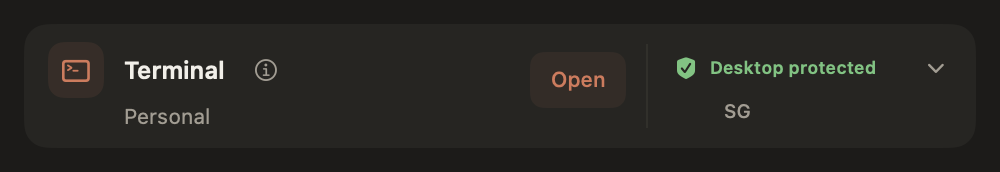
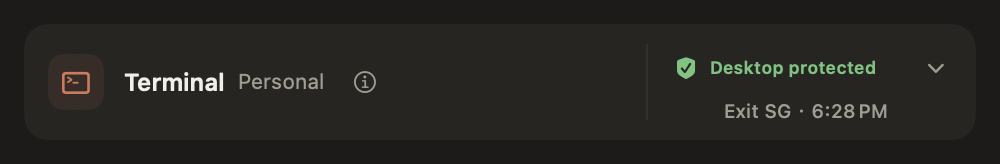
ui: align terminal and network evidence by state

diff --git a/App/ProtectionView.swift b/App/ProtectionView.swift
@@ -166,6 +166,47 @@ struct TerminalProtectionCard: View {
         return draft != target || modeChanged
     }
 
+    private func freshNetworkExit(now: Date) -> (country: String, checkedAt: Date)? {
+        guard !controller.checking, !controller.working, !controller.hasUnsavedChanges,
+              let activeCountry = controller.activeCountry?.trimmingCharacters(in: .whitespacesAndNewlines).uppercased(),
+              !activeCountry.isEmpty, let activeMode = controller.activeProxyMode else { return nil }
+
+        func normalized(_ country: String?) -> String? {
+            country?.trimmingCharacters(in: .whitespacesAndNewlines).uppercased()
+        }
+        func fresh(_ checkedAt: Date) -> Bool {
+            let age = now.timeIntervalSince(checkedAt)
+            return age >= 0 && age <= SafetyConfig.maximumReceiptAge
+        }
+
+        let reportIsNewest = controller.lastCheckReport.map { report in
+            controller.guardCheckedAt.map { report.checkedAt >= $0 } ?? true
+        } ?? false
+        if reportIsNewest, let report = controller.lastCheckReport {
+            guard fresh(report.checkedAt), report.validationMessage == nil, report.passed,
+                  normalized(report.targetCountry) == activeCountry, report.proxyMode == activeMode,
+                  let observation = report.observation,
+                  let country = normalized(observation.country), country == activeCountry else { return nil }
+            return (country, report.checkedAt)
+        }
+
+        guard let checkedAt = controller.guardCheckedAt, fresh(checkedAt),
+              controller.enabled, controller.guardOnline, controller.lastDecision.allowed,
+              normalized(controller.lastDecision.expectedCountry) == activeCountry,
+              let country = normalized(controller.lastDecision.observedCountry), country == activeCountry else { return nil }
+        return (country, checkedAt)
+    }
+
+    private func networkSummary(now: Date, includeTime: Bool = true) -> String {
+        guard let exit = freshNetworkExit(now: now) else {
+            return t("common.target", arguments: ["country": controller.activeCountry ?? t("common.notSet")])
+        }
+        let exitText = t("protection.observedExit", arguments: ["country": exit.country])
+        guard includeTime else { return exitText }
+        let time = AppLocalization.date(exit.checkedAt, language: language, timeStyle: .short)
+        return exitText + " · " + time
+    }
+
     /// Stale completed network results lose their verdict colour; early gate failures keep their actual reason.
     private var displayVerdict: (text: String, color: Color, icon: String) {
         if resultStale, controller.lastCheckReport?.observation != nil {
@@ -378,30 +419,33 @@ struct TerminalProtectionCard: View {
     }
 
     private var protectionHeader: some View {
-        VStack(alignment: .leading, spacing: 4) {
-            if protectedSummaryCountry != nil {
-                ViewThatFits(in: .horizontal) {
-                    protectedSummary(inlineCountry: true)
-                    protectedSummary(inlineCountry: false)
+        TimelineView(.periodic(from: .now, by: 5)) { context in
+            let detail = statusDetail(now: context.date)
+            VStack(alignment: .leading, spacing: 4) {
+                if protectedSummaryCountry(now: context.date) != nil {
+                    ViewThatFits(in: .horizontal) {
+                        protectedSummary(inlineCountry: true, now: context.date)
+                        protectedSummary(inlineCountry: false, now: context.date)
+                    }
+                } else {
+                    statusRow
+                    Group {
+                        Text(detail.isEmpty ? " " : detail)
+                            .font(.system(size: 9.5, weight: .medium)).foregroundColor(.sub)
+                            .lineLimit(1).minimumScaleFactor(0.75)
+                            .padding(.leading, 26)
+                            .opacity(detail.isEmpty ? 0 : 1)
+                            .accessibilityHidden(detail.isEmpty)
+                    }
                 }
-            } else {
-                statusRow
-                Group {
-                    Text(statusDetail.isEmpty ? " " : statusDetail)
-                        .font(.system(size: 9.5, weight: .medium)).foregroundColor(.sub)
-                        .lineLimit(1).minimumScaleFactor(0.75)
-                        .padding(.leading, 26)
-                        .opacity(statusDetail.isEmpty ? 0 : 1)
-                        .accessibilityHidden(statusDetail.isEmpty)
+                if controller.desktopScope == .subscription && needsRetry {
+                    protectionAction()
                 }
             }
-            if controller.desktopScope == .subscription && needsRetry {
-                protectionAction()
-            }
+            .padding(.horizontal, 2).padding(.vertical, 4)
+            .frame(maxWidth: .infinity, alignment: .topLeading)
+            .accessibilityLabel(t("protection.statusAccessibility", arguments: ["title": statusTitle, "detail": detail]))
         }
-        .padding(.horizontal, 2).padding(.vertical, 4)
-        .frame(maxWidth: .infinity, alignment: .topLeading)
-        .accessibilityLabel(t("protection.statusAccessibility", arguments: ["title": statusTitle, "detail": statusDetail]))
     }
 
     private var statusRow: some View {
@@ -431,17 +475,17 @@ struct TerminalProtectionCard: View {
         }
     }
 
-    private func protectedSummary(inlineCountry: Bool) -> some View {
+    private func protectedSummary(inlineCountry: Bool, now: Date) -> some View {
         VStack(alignment: .leading, spacing: 2) {
             HStack(spacing: 4) {
                 if inlineCountry {
-                    inlineStatusContent
+                    inlineStatusContent(now: now)
                 } else {
                     statusContent.padding(.horizontal, 6)
                 }
                 settingsToggleButton
             }
-            if !inlineCountry, let country = protectedSummaryCountry {
+            if !inlineCountry, let country = protectedSummaryCountry(now: now) {
                 Text(country)
                     .font(.system(size: 9.5, weight: .medium)).foregroundColor(.sub)
                     .lineLimit(1).padding(.leading, 32)
@@ -449,11 +493,11 @@ struct TerminalProtectionCard: View {
         }
     }
 
-    private var inlineStatusContent: some View {
+    private func inlineStatusContent(now: Date) -> some View {
         HStack(spacing: 5) {
             Image(systemName: statusIcon).font(.system(size: 11, weight: .semibold))
                 .frame(width: 14, height: 14)
-            if let country = protectedSummaryCountry {
+            if let country = protectedSummaryCountry(now: now) {
                 (Text(statusTitle) + Text(" · " + country).foregroundColor(.sub))
                     .font(.system(size: 11, weight: .semibold))
                     .lineLimit(1).fixedSize(horizontal: true, vertical: false)
@@ -465,11 +509,11 @@ struct TerminalProtectionCard: View {
         .foregroundColor(statusColor)
     }
 
-    private var protectedSummaryCountry: String? {
+    private func protectedSummaryCountry(now: Date) -> String? {
         guard controller.enabled, !controller.working, protectedDesktop,
               let country = controller.activeCountry?.trimmingCharacters(in: .whitespacesAndNewlines),
               !country.isEmpty else { return nil }
-        return country
+        return networkSummary(now: now)
     }
 
     private var statusContent: some View {
@@ -606,11 +650,11 @@ struct TerminalProtectionCard: View {
         if protectedDesktop { return t("protection.active") }
         return t("protection.unconfirmedStatus")
     }
-    /// The one useful fact per state. The target shown is always the saved one the guard runs with,
-    /// never the draft in the settings field.
-    private var statusDetail: String {
+    /// The one useful fact per state. Any actual exit is tied to a fresh check of the saved configuration;
+    /// otherwise the target remains the saved one, never the draft in the settings field.
+    private func statusDetail(now: Date) -> String {
         if controller.desktopScope == .api { return t("protection.subscriptionOnly") }
-        let target = t("common.target", arguments: ["country": controller.activeCountry ?? t("common.notSet")])
+        let target = networkSummary(now: now, includeTime: false)
         if controller.working { return target }
         if !controller.enabled { return controller.activeCountry == nil ? "" : target }
         if !controller.guardOnline || controller.lastDecision.reason == .terminationFailed { return target }

diff --git a/App/Views.swift b/App/Views.swift
@@ -485,14 +485,26 @@ struct TerminalStrip: View {
         return "\(local.prefix(2))***@\(domain)"
     }
 
-    private var terminalSummary: String {
+    private var normalIdentity: String? {
+        guard subscriptionDesktop else { return nil }
         if verifiedMatch {
-            return store.active?.snapshot?.email.flatMap(maskedEmail) ?? accountName
+            return accountName
         }
         if !showsConnectionPhase, !defaultMismatch, !usageLoginRequired, case .sameAccount = connection.localRecord {
             return accountName
         }
-        return terminalStatus
+        return nil
+    }
+
+    private var normalIdentityDetail: String? {
+        guard subscriptionDesktop, verifiedMatch else { return nil }
+        let match = t("cli.matchShort")
+        guard let email = store.active?.snapshot?.email.flatMap(maskedEmail) else { return match }
+        return "\(match) · \(email)"
+    }
+
+    private var terminalSummary: String {
+        normalIdentity ?? terminalStatus
     }
 
     private var terminalStatus: String {
@@ -549,7 +561,7 @@ struct TerminalStrip: View {
 
     private var needsPreparation: Bool {
         if showsConnectionPhase {
-            return connection.phase == .choosing || connection.phase == .mismatched
+            return connection.phase == .unlinked || connection.phase == .choosing || connection.phase == .mismatched
         }
         if defaultMismatch { return true }
         switch connection.localRecord {
@@ -563,19 +575,19 @@ struct TerminalStrip: View {
             switch connection.phase {
             case .waitingForLogin: return t("cli.confirmLogin")
             case .failed: return t("cli.retry")
-            case .choosing: return t("cli.prepare")
+            case .unlinked, .choosing: return t("cli.prepare")
             case .mismatched: return t("common.switch")
-            default: break
+            case .checking, .opening, .matched, .unconfirmed: break
             }
         }
         if defaultMismatch { return t("common.switch") }
         if usageLoginRequired { return t("cli.openForLogin") }
         if case .differentAccount = connection.localRecord { return t("common.switch") }
-        return t(needsPreparation ? "cli.prepare" : "cli.open")
+        return t(needsPreparation ? "cli.prepare" : "cli.confirmLogin")
     }
 
     private var showsInlineAction: Bool {
-        guard subscriptionDesktop, !connection.isBusy else { return false }
+        guard subscriptionDesktop, !connection.isBusy, normalIdentity == nil else { return false }
         if showsConnectionPhase {
             switch connection.phase {
             case .checking, .opening: return false
@@ -753,13 +765,14 @@ struct TerminalStrip: View {
     var body: some View {
         let displayedStatus = subscriptionDesktop ? terminalStatus : status
         let displayedStatusColor = subscriptionDesktop ? terminalStatusColor : statusColor
+        let normalIdentity = subscriptionDesktop ? self.normalIdentity : nil
+        let normalIdentityDetail = subscriptionDesktop ? self.normalIdentityDetail : nil
         let summary = subscriptionDesktop ? terminalSummary : accountDetail ?? status
         let statusHelp = t(subscriptionDesktop ? "cli.statusHelp" : "cli.defaultStatusHelp")
         let title = Text(summaryTitle).font(.system(size: 12, weight: .semibold)).foregroundColor(.txt)
             .lineLimit(1).fixedSize(horizontal: true, vertical: false)
         let identity = Text(summary).font(.system(size: 10.5)).foregroundColor(displayedStatusColor)
             .lineLimit(1).truncationMode(.middle)
-            .frame(maxWidth: .infinity, alignment: .leading)
         let statusInfo = Button { showHelp.toggle() } label: {
             Image(systemName: "info.circle").font(.system(size: 11)).foregroundColor(.sub)
                 .frame(width: 28, height: 28)
@@ -777,11 +790,18 @@ struct TerminalStrip: View {
             VStack(alignment: .leading, spacing: 3) {
                 HStack(spacing: 6) {
                     title
+                    if normalIdentity != nil { identity }
                     statusInfo
                     Spacer(minLength: 4)
                 }
                 .frame(height: 28)
-                identity
+                if normalIdentity == nil {
+                    identity.frame(maxWidth: .infinity, alignment: .leading)
+                } else if let normalIdentityDetail {
+                    Text(normalIdentityDetail).font(.system(size: 10.5)).foregroundColor(displayedStatusColor)
+                        .lineLimit(1).truncationMode(.middle)
+                        .frame(maxWidth: .infinity, alignment: .leading)
+                }
             }
             if showsInlineAction {
                 Spacer(minLength: 4)

diff --git a/App/AppLocalization.swift b/App/AppLocalization.swift
@@ -699,6 +699,7 @@ enum AppLocalization {
             "protection.pending": "本轮结果未出",
             "protection.proxy": "代理",
             "protection.exitCountry": "出口国家",
+            "protection.observedExit": "出口 {country}",
             "protection.autoProxy": "随 TUN 判定",
             "protection.autoProxyHelp": "自动模式不单独检查代理，以 TUN 结果为准。",
             "protection.connected": "已连接",
@@ -1089,6 +1090,7 @@ enum AppLocalization {
             "protection.pending": "No result this round",
             "protection.proxy": "Proxy",
             "protection.exitCountry": "Exit country",
+            "protection.observedExit": "Exit {country}",
             "protection.autoProxy": "From TUN",
             "protection.autoProxyHelp": "Auto mode uses the TUN result instead of a separate proxy check.",
             "protection.connected": "Connected",
